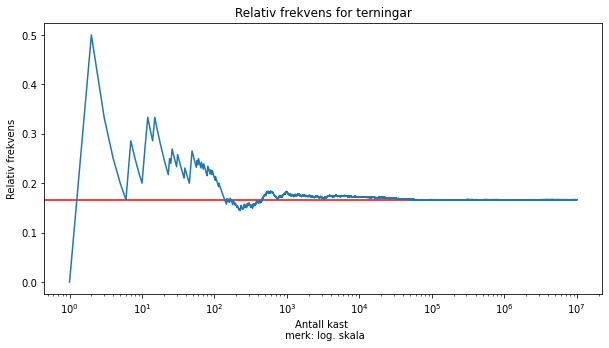
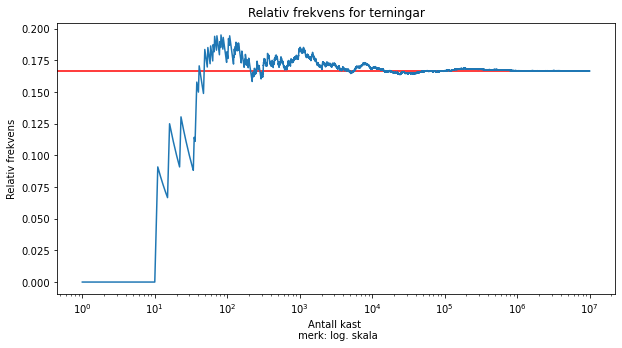
Update documentation

diff --git a/searchindex.js b/searchindex.js
@@ -1,1 +1,1 @@
-Search.setIndex({docnames:["README","index","intro-importering","terningar"],envversion:{"sphinx.domains.c":2,"sphinx.domains.changeset":1,"sphinx.domains.citation":1,"sphinx.domains.cpp":4,"sphinx.domains.index":1,"sphinx.domains.javascript":2,"sphinx.domains.math":2,"sphinx.domains.python":3,"sphinx.domains.rst":2,"sphinx.domains.std":2,"sphinx.ext.intersphinx":1,sphinx:56},filenames:["README.md","index.md","intro-importering.ipynb","terningar.ipynb"],objects:{},objnames:{},objtypes:{},terms:{"0":3,"1":2,"10":3,"1000000":3,"10000000":3,"10x5":3,"14":3,"167":3,"2":2,"24":3,"3":[2,3],"333":3,"334":[],"36":3,"4":[2,3],"443":3,"444":3,"5":[2,3],"50":3,"6":[2,3],"7":3,"8":3,"9":3,"\u00e5":[1,2,3],"alts\u00e5":2,"b\u00e5de":2,"d\u00f8me":[1,2,3],"d\u00f8met":3,"f\u00f8lger":1,"f\u00f8lgjand":2,"fors\u00f8k":3,"fr\u00e5":[2,3],"gjennomf\u00f8r":3,"h\u00f8gare":3,"import":[2,3],"l\u00f8kker":3,"m\u00e5l":3,"m\u00e5tar":3,"m\u00e5ten":3,"n\u00e5r":[2,3],"n\u00e6rare":3,"p\u00e5":[1,2,3],"s\u00e5":3,"s\u00e5kalla":2,"sj\u00f8lvsagt":2,"sp\u00f8rsm\u00e5l":3,"st\u00f8rre":3,"verkt\u00f8i":1,For:3,aks:3,aksen:3,aktuel:2,aktuelt:1,all:1,alternativa:3,anaconda:1,anbefalt:3,anna:1,antal:3,approx:3,arang:3,arrayen:3,av:[1,3],b:[2,3],basert:3,biblioteka:[1,2],boka:1,book:0,bruk:1,bruka:[2,3],brukast:1,brukt:[0,1],c:[2,3],color:3,cumsum:3,default_rng:3,dei:[1,2,3],del:1,den:[1,3],denn:[1,2],der:1,derm:2,dess:[1,3],det:[1,2,3],dett:3,di:3,dokumentasjonen:[2,3],driv:2,du:1,eg:[2,3],ein:[1,2],eit:1,element:3,eller:3,en:[2,3],enklast:[1,3],er:[1,2,3],f:3,fagfornya:1,farg:3,figsiz:3,figur:3,finn:[1,3],finna:3,fint:3,firar:3,fleir:2,frac:3,frekven:3,frekvensen:3,from:[2,3],funksjonan:2,funksjonar:2,funksjonen:3,gansk:2,gener:3,gitt:2,gje:[2,3],gjennom:3,gjer:3,gjera:3,gongar:3,gunstig:3,ha:2,har:2,held:2,henta:2,her:[1,2,3],hjelp:3,hline:3,hovudsak:1,i:[0,1,2,3],igjen:3,ikkj:2,importer:3,inn:3,innstallera:1,integ:3,jupyt:[0,1],kan:[1,3],kast:3,kjem:[2,3],koden:2,kontrol:2,kor:[2,3],korlei:1,kumul:3,kumulativ_sum:3,kursa:1,kva:3,kvar:2,lab:1,lagar:3,lager:3,lagt:1,legga:3,ligg:[1,2],lik:3,like:2,likevel:2,linj:3,linja:3,litt:1,log:3,logaritmisk:3,matematikk:0,matematikkfaget:1,matplotlib:[1,3],matt:1,me:3,med:[0,1,2,3],meir:1,mellom:[1,2],men:2,merk:3,mest:1,mindr:3,modulen:2,mogleg:2,munnen:2,n:3,namn:3,note:3,np:[2,3],number:3,numpi:[1,3],nyast:3,nytta:3,nyttar:[2,3],og:[0,1,2],om:3,opp:1,oss:3,over:[2,3],oversikt:2,p:3,pakken:1,panda:1,plass:3,plot:3,plottar:3,plt:3,print:3,produkt:3,produktet:3,programm:1,pylab:2,pyplot:3,python:[1,3],pythonprogramm:0,randint:2,random:3,rang:3,rangl:2,red:3,rel:3,rel_frekven:3,relativ:3,resultatet:3,rett:2,returnera:2,rng:3,round:3,s1:[0,2],s2:[0,2],s:1,samanhengen:3,samm:3,samtidig:2,sannsyn:3,sannsynet:3,sannsynleg:3,ser:3,show:3,sidan:2,simul:3,size:3,sjekk:[2,3],sjekkar:3,skala:3,skjer:3,som:[1,2,3],stjerneimport:2,stokastisk:3,sum:3,summen:3,svar:3,teiknar:3,teoretisk:3,terning1:3,terning2:3,text:3,til:[1,2,3],tillegg:1,tip:1,titl:3,tittel:3,trill:3,trilla:3,triller:3,tunga:2,type:1,ulik:[1,2,3],ut:3,vanleg:3,varianten:1,ved:3,veksla:2,verdi:3,verdien:3,vert:1,vil:[2,3],visa:3,viser:3,viss:3,x:3,xlabel:3,xscale:3,y:3,ylabel:3,ypperleg:1},titles:["S-matte","Matematikk for samfunnsfag","Numpy vs Random","Terningar"],titleterms:{"1":3,"2":3,"l\u00f8kke":3,"n\u00f8yaktighet":3,alternativ:3,arrai:3,ein:3,fleir:3,matematikk:1,matt:0,numpi:2,og:3,programvar:1,random:2,s:0,samfunnsfag:1,tern:3,terningar:3,vs:2}})
+Search.setIndex({docnames:["README","index","intro-importering","terningar"],envversion:{"sphinx.domains.c":2,"sphinx.domains.changeset":1,"sphinx.domains.citation":1,"sphinx.domains.cpp":4,"sphinx.domains.index":1,"sphinx.domains.javascript":2,"sphinx.domains.math":2,"sphinx.domains.python":3,"sphinx.domains.rst":2,"sphinx.domains.std":2,"sphinx.ext.intersphinx":1,sphinx:56},filenames:["README.md","index.md","intro-importering.ipynb","terningar.ipynb"],objects:{},objnames:{},objtypes:{},terms:{"0":3,"1":2,"10":3,"1000000":3,"10000000":3,"10x5":3,"14":3,"167":3,"2":2,"24":3,"3":[2,3],"333":3,"334":3,"36":3,"4":[2,3],"443":[],"444":[],"445":3,"5":[2,3],"50":3,"6":[2,3],"7":3,"8":3,"9":3,"\u00e5":[1,2,3],"alts\u00e5":2,"b\u00e5de":2,"d\u00f8me":[1,2,3],"d\u00f8met":3,"f\u00f8lger":1,"f\u00f8lgjand":2,"fors\u00f8k":3,"fr\u00e5":[2,3],"gjennomf\u00f8r":3,"h\u00f8gare":3,"import":[2,3],"l\u00f8kker":3,"m\u00e5l":3,"m\u00e5tar":3,"m\u00e5ten":3,"n\u00e5r":[2,3],"n\u00e6rare":3,"p\u00e5":[1,2,3],"s\u00e5":3,"s\u00e5kalla":2,"sj\u00f8lvsagt":2,"sp\u00f8rsm\u00e5l":3,"st\u00f8rre":3,"verkt\u00f8i":1,For:3,aks:3,aksen:3,aktuel:2,aktuelt:1,all:1,alternativa:3,anaconda:1,anbefalt:3,anna:1,antal:3,approx:3,arang:3,arrayen:3,av:[1,3],b:[2,3],basert:3,biblioteka:[1,2],boka:1,book:0,bruk:1,bruka:[2,3],brukast:1,brukt:[0,1],c:[2,3],color:3,cumsum:3,default_rng:3,dei:[1,2,3],del:1,den:[1,3],denn:[1,2],der:1,derm:2,dess:[1,3],det:[1,2,3],dett:3,di:3,dokumentasjonen:[2,3],driv:2,du:1,eg:[2,3],ein:[1,2],eit:1,element:3,eller:3,en:[2,3],enklast:[1,3],er:[1,2,3],f:3,fagfornya:1,farg:3,figsiz:3,figur:3,finn:[1,3],finna:3,fint:3,firar:3,fleir:2,frac:3,frekven:3,frekvensen:3,from:[2,3],funksjonan:2,funksjonar:2,funksjonen:3,gansk:2,gener:3,gitt:2,gje:[2,3],gjennom:3,gjer:3,gjera:3,gongar:3,gunstig:3,ha:2,har:2,held:2,henta:2,her:[1,2,3],hjelp:3,hline:3,hovudsak:1,i:[0,1,2,3],igjen:3,ikkj:2,importer:3,inn:3,innstallera:1,integ:3,jupyt:[0,1],kan:[1,3],kast:3,kjem:[2,3],kodelinja:3,koden:2,kontrol:2,kor:[2,3],korlei:1,kumul:3,kumulativ_sum:3,kursa:1,kva:3,kvar:2,lab:1,lagar:3,lager:3,lagt:1,legga:3,ligg:[1,2],lik:3,like:2,likevel:2,linj:3,linja:[],litt:1,log:3,logaritmisk:3,matematikk:0,matematikkfaget:1,matplotlib:[1,3],matt:1,me:3,med:[0,1,2,3],meir:1,mellom:[1,2],men:2,merk:3,mest:1,mindr:3,modulen:2,mogleg:2,munnen:2,n:3,namn:3,note:[],np:[2,3],number:3,numpi:[1,3],nyast:[],nytta:3,nyttar:[2,3],og:[0,1,2],om:3,opp:1,oss:3,over:[2,3],oversikt:2,p:3,pakken:1,panda:1,plass:3,plot:3,plottar:3,plt:3,print:3,produkt:3,produktet:3,programm:1,pylab:2,pyplot:3,python:1,pythonprogramm:0,randint:2,random:3,rang:3,rangl:2,red:3,rel:3,rel_frekven:3,relativ:3,resultatet:3,rett:2,returnera:2,rng:3,round:3,s1:[0,2],s2:[0,2],s:1,samanhengen:3,samm:3,samtidig:2,sannsyn:3,sannsynet:3,sannsynleg:3,ser:3,show:3,sidan:2,simul:3,size:3,sjekk:[2,3],sjekkar:3,skala:3,skjer:3,som:[1,2,3],stjerneimport:2,stokastisk:3,sum:3,summen:3,svar:3,teiknar:3,teoretisk:3,terning1:3,terning2:3,text:3,til:[1,2,3],tillegg:1,tip:[1,3],titl:3,tittel:3,trill:3,trilla:3,triller:3,tunga:2,type:1,ulik:[1,2,3],ut:3,vanleg:3,varianten:1,ved:3,veksla:2,verdi:3,verdien:3,vert:1,vil:[2,3],visa:3,viser:3,viss:3,x:3,xlabel:3,xscale:3,y:3,ylabel:3,ypperleg:1},titles:["S-matte","Matematikk for samfunnsfag","Numpy vs Random","Terningar"],titleterms:{"1":3,"2":3,"l\u00f8kke":3,"n\u00f8yaktighet":3,alternativ:3,arrai:3,ein:3,fleir:3,matematikk:1,matt:0,numpi:2,og:3,programvar:1,random:2,s:0,samfunnsfag:1,tern:3,terningar:3,vs:2}})

diff --git a/terningar.html b/terningar.html
@@ -311,8 +311,11 @@ const thebe_selector_output = ".output, .cell_output"
                 
   <div class="tex2jax_ignore mathjax_ignore section" id="terningar">
 <h1>Terningar<a class="headerlink" href="#terningar" title="Permalink to this headline">¶</a></h1>
-<p><strong>Note</strong>
-Eg nyttar den nyaste og anbefalte måten å nytta numpy.random (sjekk <a class="reference external" href="https://numpy.org/doc/stable/reference/random/index.html?highlight=random#module-numpy.random">dokumentasjonen</a>)</p>
+<div class="admonition note">
+<p class="admonition-title">Note</p>
+<p>Merk
+Eg nyttar den anbefalte måten å nytta numpy.random (sjekk <a class="reference external" href="https://numpy.org/doc/stable/reference/random/index.html?highlight=random#module-numpy.random">dokumentasjonen</a>)</p>
+</div>
 <div class="cell docutils container">
 <div class="cell_input docutils container">
 <div class="highlight-ipython3 notranslate"><div class="highlight"><pre><span></span><span class="kn">import</span> <span class="nn">numpy</span> <span class="k">as</span> <span class="nn">np</span>                                 <span class="c1"># Importerer numpy som np</span>
@@ -348,15 +351,15 @@ Eg nyttar den nyaste og anbefalte måten å nytta numpy.random (sjekk <a class="
 </div>
 </div>
 <div class="cell_output docutils container">
-<div class="output stream highlight-myst-ansi notranslate"><div class="highlight"><pre><span></span>5
-3
+<div class="output stream highlight-myst-ansi notranslate"><div class="highlight"><pre><span></span>2
 1
-6
+1
+3
 6
 3
 4
-5
 1
+6
 3
 </pre></div>
 </div>
@@ -371,7 +374,7 @@ Eg nyttar den nyaste og anbefalte måten å nytta numpy.random (sjekk <a class="
 </div>
 </div>
 <div class="cell_output docutils container">
-<div class="output stream highlight-myst-ansi notranslate"><div class="highlight"><pre><span></span>[4 6 6 2 3 2 2 2 2 6]
+<div class="output stream highlight-myst-ansi notranslate"><div class="highlight"><pre><span></span>[6 2 2 1 3 6 3 1 2 6]
 </pre></div>
 </div>
 </div>
@@ -420,7 +423,7 @@ Eg nyttar den nyaste og anbefalte måten å nytta numpy.random (sjekk <a class="
 </div>
 </div>
 <div class="cell_output docutils container">
-<div class="output stream highlight-myst-ansi notranslate"><div class="highlight"><pre><span></span>Sannsynet for å trilla 5 eller høgare er 0.333
+<div class="output stream highlight-myst-ansi notranslate"><div class="highlight"><pre><span></span>Sannsynet for å trilla 5 eller høgare er 0.334
 </pre></div>
 </div>
 </div>
@@ -453,7 +456,7 @@ Eg nyttar den nyaste og anbefalte måten å nytta numpy.random (sjekk <a class="
 </div>
 </div>
 <div class="cell_output docutils container">
-<div class="output stream highlight-myst-ansi notranslate"><div class="highlight"><pre><span></span>Sannsynet for at produktet av to terningar er 8 eller mindre er 0.444
+<div class="output stream highlight-myst-ansi notranslate"><div class="highlight"><pre><span></span>Sannsynet for at produktet av to terningar er 8 eller mindre er 0.445
 </pre></div>
 </div>
 </div>
@@ -479,13 +482,16 @@ Eg nyttar den nyaste og anbefalte måten å nytta numpy.random (sjekk <a class="
 </div>
 </div>
 <div class="cell_output docutils container">
-<div class="output stream highlight-myst-ansi notranslate"><div class="highlight"><pre><span></span>Sannsynet for at produktet av to terningar er 8 eller mindre er 0.443
+<div class="output stream highlight-myst-ansi notranslate"><div class="highlight"><pre><span></span>Sannsynet for at produktet av to terningar er 8 eller mindre er 0.445
 </pre></div>
 </div>
 </div>
 </div>
-<p><strong>Note</strong>
-Linja <code class="docutils literal notranslate"><span class="pre">python</span> <span class="pre">produkt</span> <span class="pre">=</span> <span class="pre">terning1</span> <span class="pre">*</span> <span class="pre">terning2</span></code> finn produktet av element på samme plass i dei to arrayene:</p>
+<div class="admonition tip">
+<p class="admonition-title">Tip</p>
+<p>Tips
+Kodelinja <code class="docutils literal notranslate"><span class="pre">produkt</span> <span class="pre">=</span> <span class="pre">terning1</span> <span class="pre">*</span> <span class="pre">terning2</span></code> finn produktet av element på samme plass i dei to arrayene</p>
+</div>
 <div class="cell docutils container">
 <div class="cell_input docutils container">
 <div class="highlight-ipython3 notranslate"><div class="highlight"><pre><span></span><span class="n">a</span> <span class="o">=</span> <span class="n">np</span><span class="o">.</span><span class="n">array</span><span class="p">([</span><span class="mi">1</span><span class="p">,</span> <span class="mi">2</span><span class="p">,</span> <span class="mi">3</span><span class="p">,</span> <span class="mi">4</span><span class="p">,</span> <span class="mi">5</span><span class="p">])</span>
